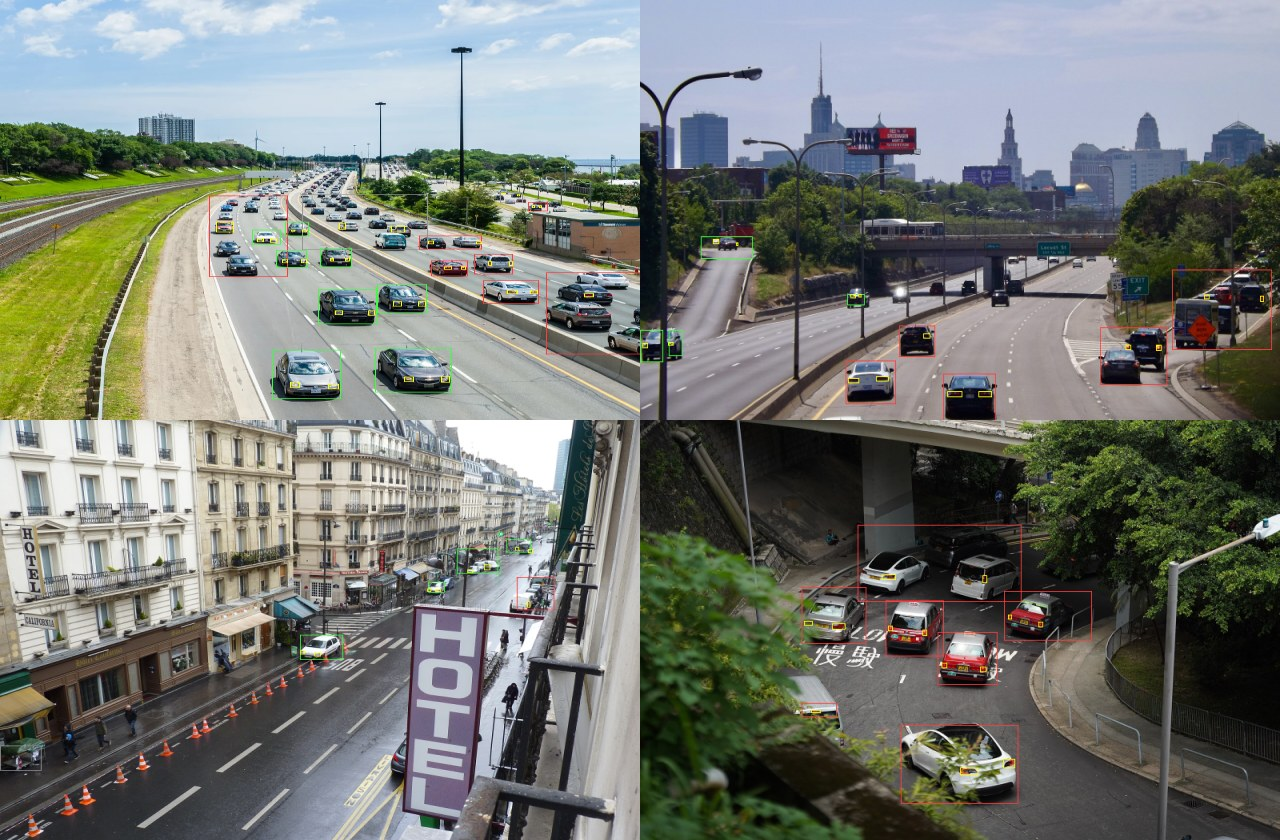
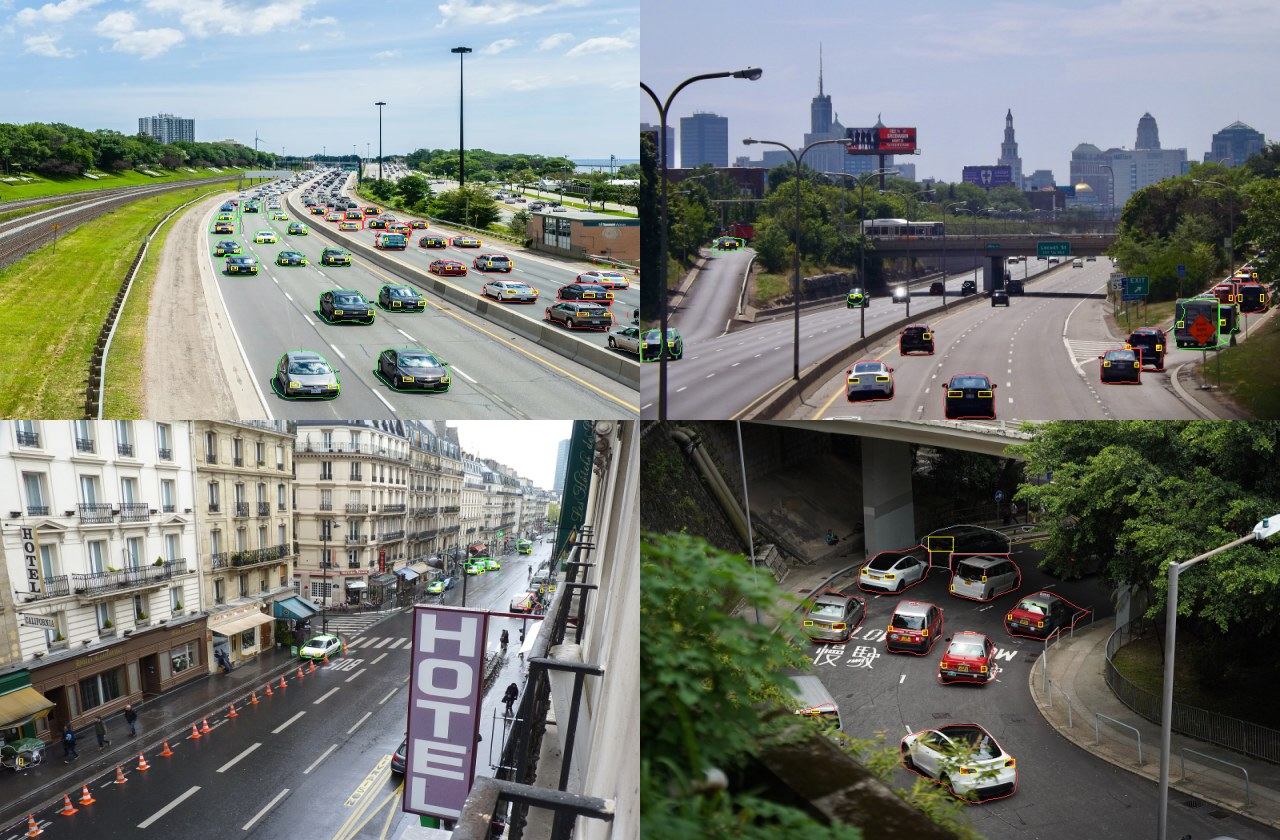
Guides: how touching vehicles are told apart, and what it costs
The vehicle views section says how an outline is shared out, the figure
draws each vehicle by its own outline, and the timings are those of the
two looks. The road surface guide's limits say what is left.

diff --git a/docs/make_road_surface_figures.py b/docs/make_road_surface_figures.py
@@ -136,12 +136,11 @@ def read_roads(images: dict[str, np.ndarray], providers: dict[str, SharedDepthPr
     _save("lanes.jpg", tiles, 2)
 
 
-def read_vehicles(
-    images: dict[str, np.ndarray], providers: dict[str, SharedDepthProvider]
-) -> None:
+def read_vehicles(images: dict[str, np.ndarray], providers: dict[str, SharedDepthProvider]) -> None:
     """Each scene's vehicles as read: outlined green for a front and red for a rear, lamps boxed.
 
-    Grey is an outline the network leans neither way on.
+    Each vehicle by its own outline, as the network told it from its
+    neighbours. Grey is one it did not read or leans neither way on.
     """
     tiles = []
     for name, image in images.items():
@@ -151,7 +150,11 @@ def read_vehicles(
             colour = (150, 150, 150)
             if abs(view.facing) >= 0.03:
                 colour = (255, 60, 60) if view.facing > 0.0 else (60, 255, 60)
-            cv2.rectangle(out, (left, top), (left + wide, top + tall), colour, 1)
+            own = np.ones((tall, wide), dtype=np.uint8)
+            if view.mask is not None:
+                own = view.mask.astype(np.uint8)
+            edges, _ = cv2.findContours(own, cv2.RETR_EXTERNAL, cv2.CHAIN_APPROX_NONE)
+            cv2.drawContours(out, edges, -1, colour, 1, offset=(left, top))
             for x, y, half_wide, half_tall, _score in view.lamps.tolist():
                 first = (round(x - half_wide), round(y - half_tall))
                 last = (round(x + half_wide), round(y + half_tall))

diff --git a/docs/scene_understanding.md b/docs/scene_understanding.md
@@ -323,24 +323,39 @@ provider = SharedDepthProvider(
 views = provider.get_vehicles(image)              # one VehicleView per outline
 ```
 
-**How.** Each connected piece of the vehicle label is cut out of the frame
-and the cuts are laid out as one square mosaic, sixteen to a pass. An
-open-vocabulary detector, OWLv2, is asked for two things by name, "a car
+**How.** An open-vocabulary detector, OWLv2, looks twice.
+
+*First at the whole frame, for the vehicles themselves* ("a car", "a van",
+"a truck", "a bus", "a motorcycle"). A semantic mask runs touching
+vehicles together: three cars nose to tail are one long outline to it, and
+a motorway's far traffic is one piece. The boxes found on each connected
+piece of the vehicle label share it out among them. A pixel inside one box
+is that vehicle's; inside several, it is the vehicle's whose box reaches
+lowest in the picture, which is the nearest and stands in front; what lies
+well away from every box is a vehicle the detector missed, kept as one of
+its own. Boxes that are the same vehicle twice, a row of vehicles as one,
+or not on the vehicle label at all are dropped first. On the motorway
+below, 17 connected pieces become 57 vehicles.
+
+*Then at each vehicle*, cut out of the frame and laid out with the others
+as one square mosaic, sixteen to a pass, for two things by name: "a car
 headlight" and "a car tail light". Which of the two it is surer of on a
 vehicle says which end is seen; where it found them is where the lamps
 are. Boxes that are a large part of the vehicle are not lamps, and of the
 small ones the best pair, apart across the vehicle and at one level, is
 kept, which leaves out a number plate and a badge. A
 [`VehicleView`](../src/surmentations/perception/vehicles.py) holds the
-outline's box, the two scores and the lamps.
+vehicle's box, its own mask within it, what kind it is, the two scores and
+the lamps.
 
-Green outlines are read as fronts and red as rears; the lamps found are
+Each vehicle by its own outline: green is read as a front and red as a
+rear, grey was not read or leans neither way, and the lamps found are
 boxed in yellow:
 
 ![vehicles as read](assets/road_surface/vehicle_views.jpg)
 
-**How good.** On the 22 single vehicles of these sample scenes, labelled
-by eye:
+**How good at which end.** On the 22 vehicles of these sample scenes that
+the labels already had as outlines of their own, labelled by eye:
 
 | | Right | Wrong | Silent |
 | --- | --- | --- | --- |
@@ -349,7 +364,8 @@ by eye:
 | OWLv2, headlight against tail light | 22 | 0 | 0 |
 
 Four scenes are not a benchmark. They say the network is much the better
-reader, not how good it is on yours.
+reader, not how good it is on yours. How well it tells vehicles apart was
+judged by eye on the same scenes and not counted.
 
 **Why this network.** A classifier of views does nearly as well at which
 end and says nothing of where the lamps are. Networks trained on car
@@ -361,9 +377,12 @@ already is, and has no counterpart for an unlit headlamp by day. OWLv2 is
 Apache-2.0.
 
 **What uses it.** `RandomRain`'s spray and lamps
-([`road_surface.md`](road_surface.md)). A vehicle the network is sure of
-keeps its own reading; the rest go with their road's traffic; one it did
-not read is read by colour as before. Without a reader nothing changes.
+([`road_surface.md`](road_surface.md)). Each vehicle told apart has its
+own wake, its own place in the mist and its own lamps. A vehicle the
+network is sure of keeps its own reading; the rest go with their road's
+traffic; one it did not read is read by colour as before. A vehicle it
+named a truck or a bus keeps to a lorry's speed. Without a reader nothing
+changes.
 
 ## What it costs
 
@@ -375,13 +394,15 @@ On one CPU core and a laptop GPU (RTX PRO 1000), once per new frame; from
 | Depth | 11 ms | 15 ms |
 | Scene labels | 33 ms | 33 ms |
 | Geometry | 5 ms | 6 ms |
-| Vehicle views, per 16 vehicles | 90 ms | 90 ms |
+| Vehicle views, a scene of up to 16 vehicles read | 130 ms | 130 ms |
 
-Vehicle views are timed apart, on the sample scenes at 1024 px: 90 ms for
-a scene of up to sixteen vehicles and 170 ms for the motorway's seventeen,
-in fast mode, which runs the network in half precision; 300 ms and 610 ms
-in exact mode. A scene with no vehicle labelled is not shown to the
-network. It needs about 1.2 GB of GPU memory and a 620 MB download.
+Vehicle views are timed apart, on the sample scenes at 1024 px. The
+network passes over the frame once and then once for every sixteen
+vehicles read, at about 65 ms a pass in fast mode, which runs it in half
+precision: 130 ms for a junction with nine cars, 195 ms for the motorway,
+whose 31 readable vehicles take two passes. In exact mode a pass is 280
+ms. A scene with no vehicle labelled is not shown to the network. It needs
+about 1.2 GB of GPU memory and a 620 MB download.
 
 They are made together, when the first transform asks for the scene's
 depth, from the frame the pipeline was given. A pipeline in which no

diff --git a/docs/road_surface.md b/docs/road_surface.md
@@ -184,6 +184,9 @@ Where each wake lies:
 - **Some vehicles throw up nothing**: one lying across the road, which is
   crossing, turning or parked; and any on a scrap of road under a
   twentieth of the frame, whose direction is a guess.
+- **It stays on its road.** A wake ends where its road does, at the road's
+  far end or where it turns out of the frame. It used to run on across the
+  verge.
 - **It is a thing in the scene.** Every part of a wake is hidden by the
   vehicles that stand nearer the camera than it, and by no others. The
   wake of a car coming on is behind that car, and over the bonnet of the
@@ -282,9 +285,10 @@ dry has them off. `vehicle_lamp_range` lights them
 
 - **Which lamps** is the reading above: two headlamps on a vehicle coming
   on, two tail lamps on one driving away.
-- **Where, with a reader.** Where the network found them: the pair, or
-  the one that is seen, each as large as it was found, and no larger than
-  a lamp is against its vehicle. Found on the end the vehicle is taken to
+- **Where, with a reader.** Where the network found them: the pair, each
+  as large as it was found, and no larger than a lamp is against its
+  vehicle. Where it found one of a pair on a vehicle seen end on, the
+  other is lit across from it. Found on the end the vehicle is taken to
   show, or not used.
 - **Where, without.** The end that is seen is the lower part of the
   outline, and the pair is put at one height on it, a little in from
@@ -328,9 +332,11 @@ dry has them off. `vehicle_lamp_range` lights them
   this; that is not built.
 - **Junctions, squares and car parks have no lanes.** A ragged mask gets
   no road; a tidy one is read as a road.
-- **Touching vehicles are one vehicle** to a semantic mask, so dense
-  traffic gives fewer, wider plumes, and no lamps on the merged outline
-  unless its lenses are seen.
+- **Touching vehicles are one vehicle** to a semantic mask. A provider
+  built with `vehicles=` tells them apart
+  ([vehicle views](scene_understanding.md#vehicle-views)); without one,
+  dense traffic gives fewer, wider plumes, and no lamps on a merged
+  outline unless its lenses are seen.
 - **Without a reader, which way a vehicle faces is weak evidence
   pooled.** A one-way road whose every rear is in shade and shows no red
   reads as coming on. Two carriageways with an empty lane wider than their
@@ -341,9 +347,10 @@ dry has them off. `vehicle_lamp_range` lights them
   single vehicle of four scenes, which is not a measurement. It reads the
   32 largest outlines of at least 150 pixels; smaller and further ones are
   read by colour. A vehicle seen from the side shows one lamp of each
-  kind, leans neither way and goes with its road. An outline of several
-  vehicles is read as one, and may be lit with one car's left lamp and
-  another's right.
+  kind, leans neither way and goes with its road. Vehicles it tells apart
+  are divided along the edges of their boxes, which is square where the
+  vehicles are not; and far traffic it cannot tell apart stays one
+  outline.
 - **The traffic's speed is the caller's.** Nothing in a frame is read for
   it; the default range covers a town and a motorway and is right for
   neither.
